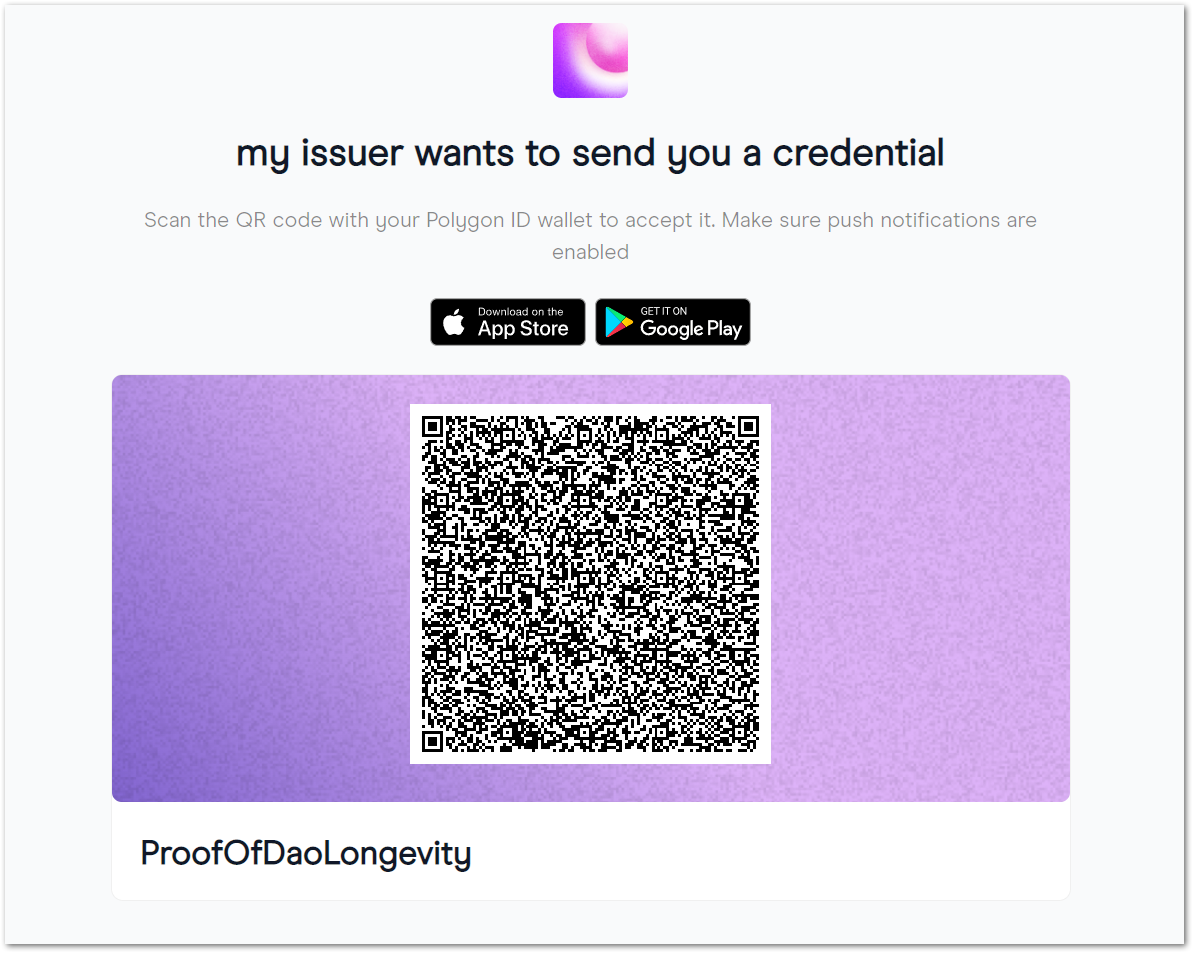
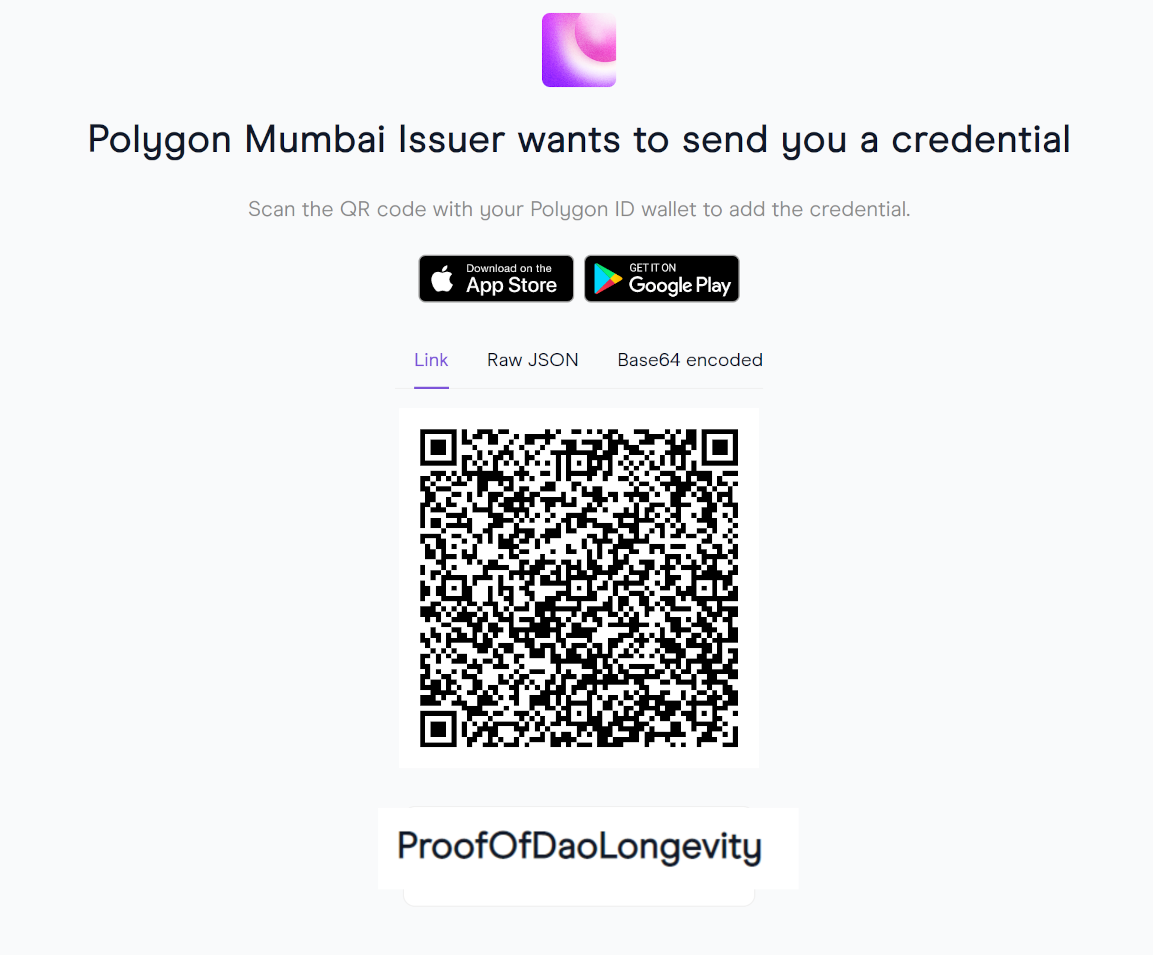
feat: Small explanation about QR code types.

diff --git a/docs/issuer-node/issuer-node-guide.md b/docs/issuer-node/issuer-node-guide.md
@@ -149,6 +149,14 @@ If you clicked on the **Issue credential** button, you will later be prompted to
 <div align="center">
 <img src= "/img/issue-credential-6.png" align="center" />
 </div>
+ 
+<br/>
+
+:::info
+There are 3 QR code options available: Link, Raw JSON and Base64 encoded. The preferred option is link because it is the most compact and the easiest to scan. It contains a link to download the original raw QR code content. Raw and Base64 encoded formats are useful for wallets that do not support Link mode or prefer not to follow that indirection.  
+:::
+
+<br/>
 
 :::info "What happens on the Holder's side?"
 
